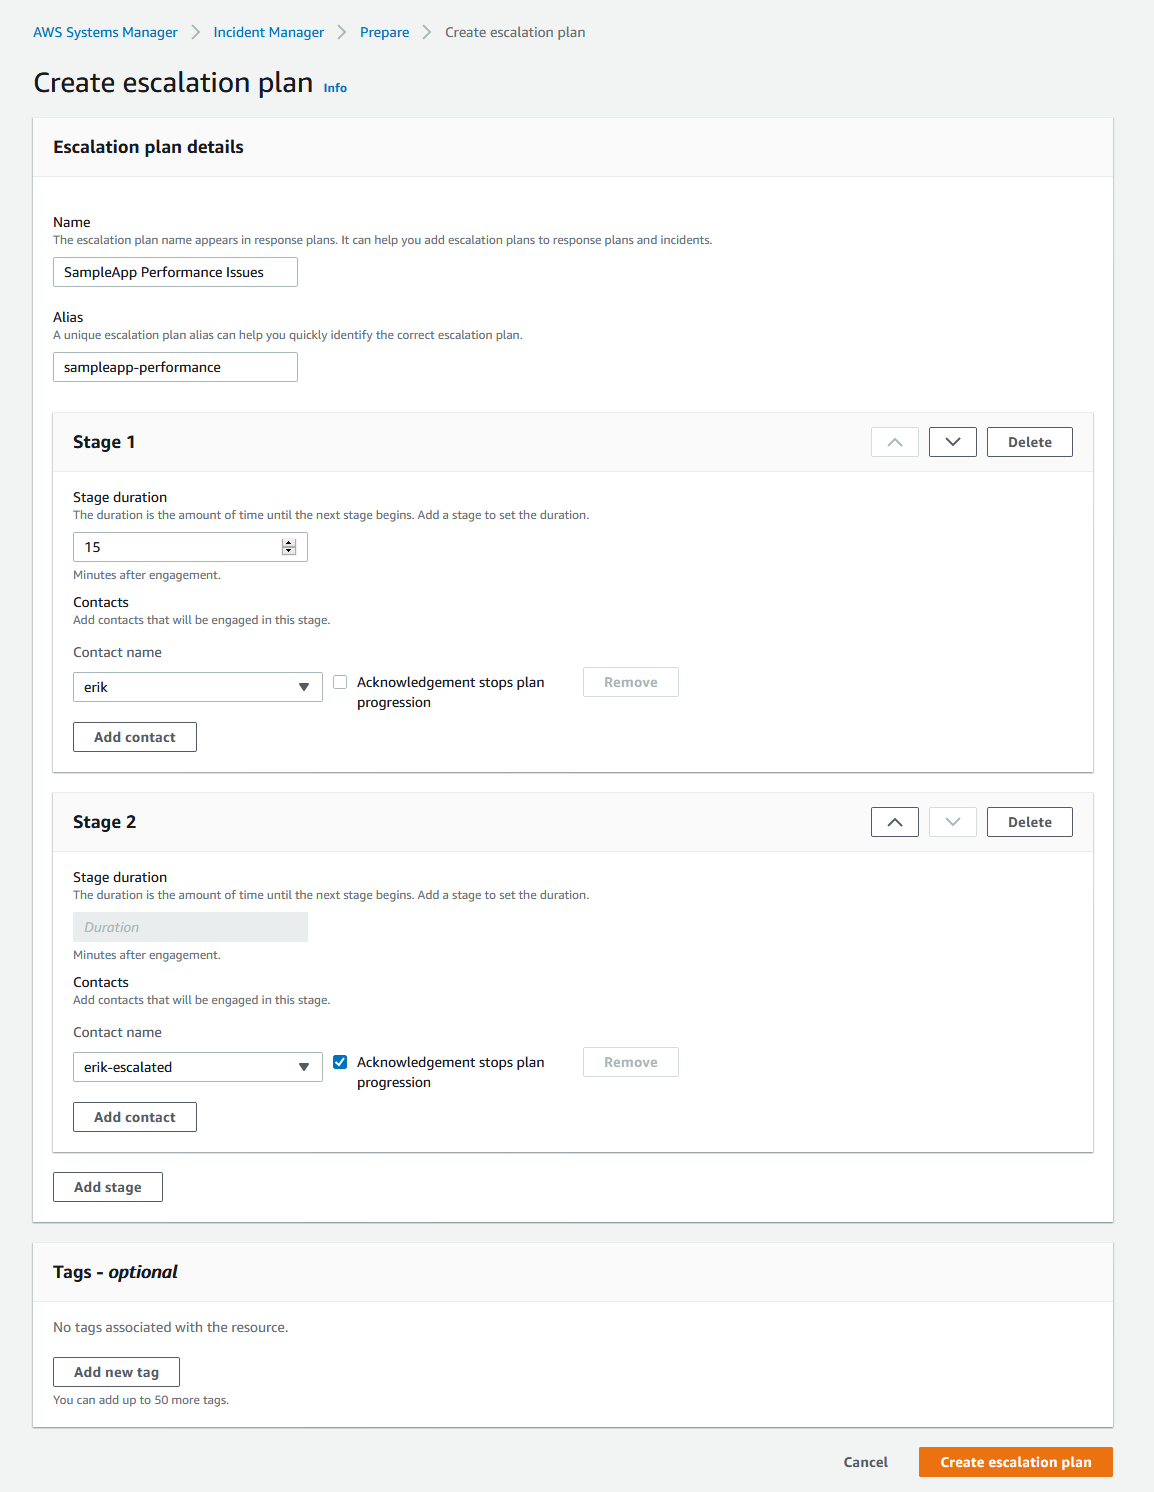
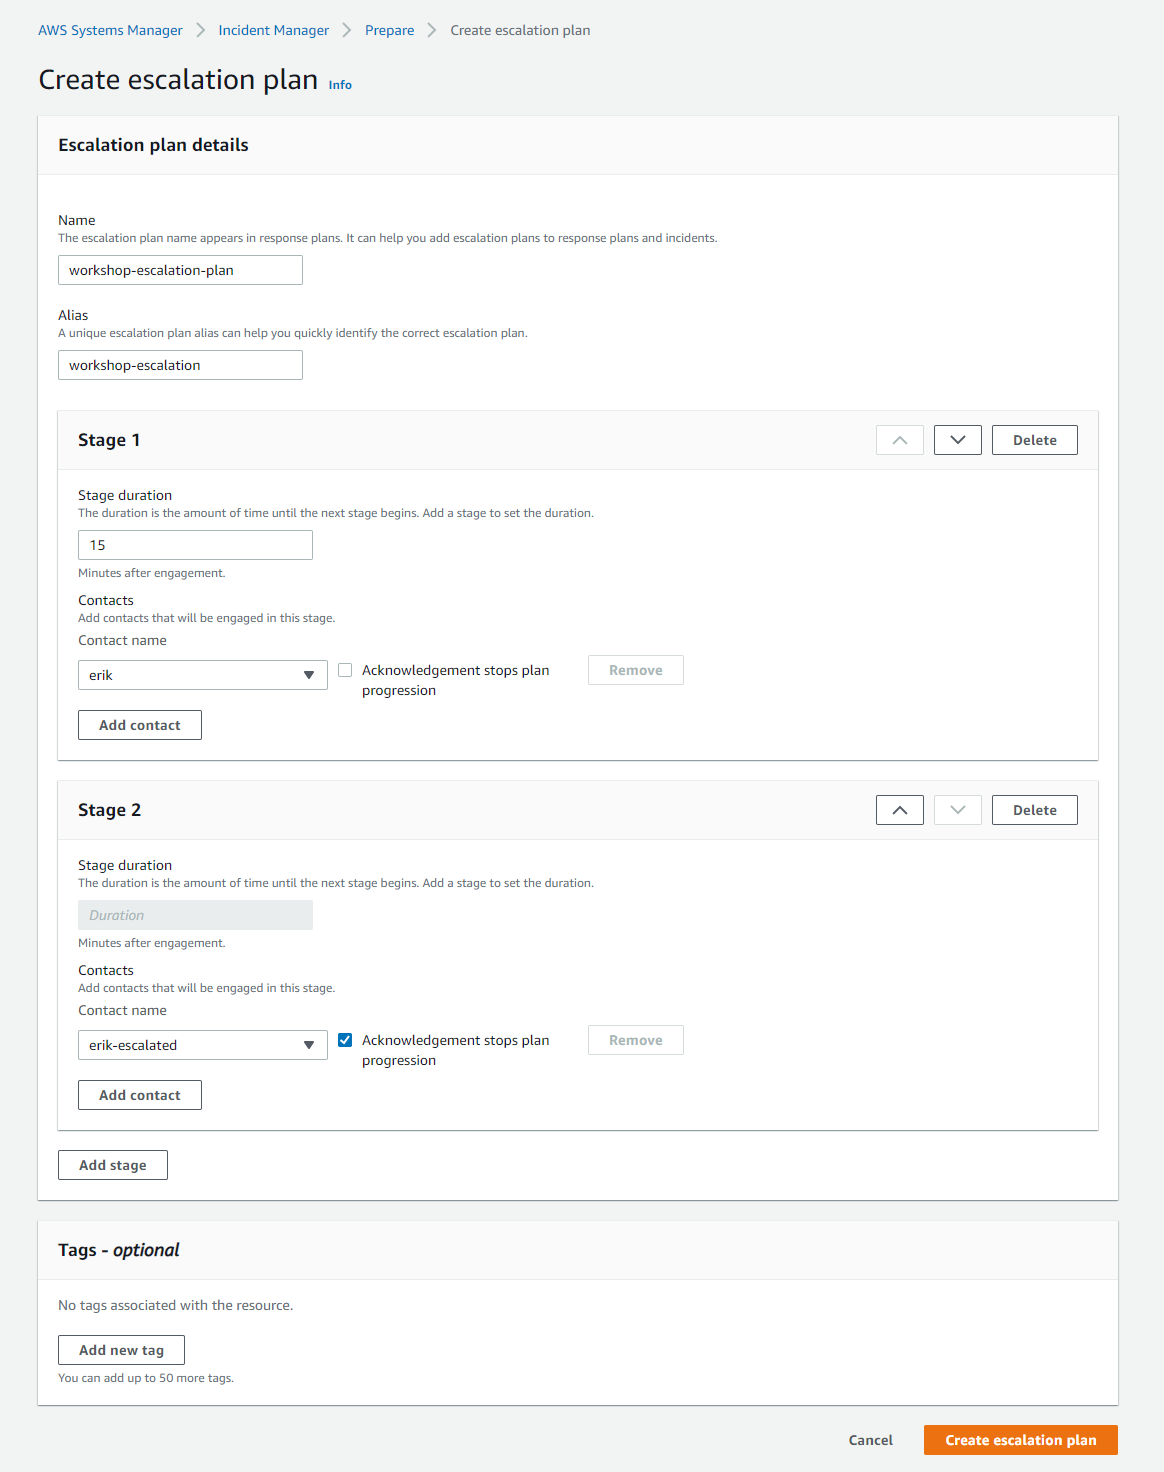
Updates

diff --git a/episode-05-step-01-enable-incident.md b/episode-05-step-01-enable-incident.md
@@ -84,8 +84,8 @@ Escalation plans use **stages** where each stage lasts a defined number of minut
 1. On the **Get prepared** page, choose **Create escalation plan** in the **Escalation plans** section.
 1. On the **Create escalation plan** page, perform the following steps:
 
-    - For **Name**, enter ```SampleApp Performance Issues```.
-    - For **Alias**, enter ```sampleapp-performance```.
+    - For **Name**, enter ```workshop-escalation-plan```.
+    - For **Alias**, enter ```workshop-escalation```.
     - Before making modifications to **Stage 1**, choose **Add stage**.
     - For **Stage 1**, perform the following steps:
         - For **Stage duration** enter ```15```.
@@ -98,7 +98,6 @@ Escalation plans use **stages** where each stage lasts a defined number of minut
     
 ![](media/prepare-escalation-plan.png)
 
-
 ### Create a response plan
 
 Use response plans to plan for incidents and define how to respond to incidents. Response plans provide a template for when an incident occurs. This template includes information about who to engage, the expected severity of the event, automatic runbooks to initiate, and metrics to monitor. To create a response plan, use the following steps. 
@@ -109,7 +108,44 @@ Use response plans to plan for incidents and define how to respond to incidents.
 1. In the navigation pane, choose [**Incident Manager**](https://console.aws.amazon.com/systems-manager/incidents).
 1. Choose **Prepare**.
 1. On the **Get prepared** page, choose **Create response plan** in the **Response plan** section.
+1. For **Response plan details**, enter the following:
 
+    - For **Name** enter ```sampleapp-performance-issues-response-plan```.
+    - For **Display name**, enter ```SampleApp Performance Issues response plan```.
+    
+1. For **Incident creation details**, enter the following:
+
+    - For **Title**, enter ```[SampleApp] Performance Issues Detected```.
+    - Expand the **Additional options** section and enter the following:
+    
+        ```
+        ### :fire: :fire: :fire: **Incident in Progress** :fire: :fire: :fire:
+
+        ---
+
+        #### Summary of Incident
+
+        Sample App resources are experiencing performance issues currently. Escalating to the workshop contact users for immediate resolution.
+
+        #### Current Status
+
+        <Responder to fill out details here>
+        ```
+    
+    - For **Dedupe string**, enter ```SampleAppPerformance```.
+
+1. For the purpose of this workshop, skip the **Chat channel** section.
+1. For **Engagements**, choose **workshop-escalation-plan** from the drop-down list.
+1. For the **Runbook** section, perform the following steps:
+
+    - Choose **Clone runbook from template**.
+    - For **Runbook name** enter ```sampleapp-response-runbook```.
+    - For **Execution permissions**, choose **Create an IAM role using a template**.
+    - For **Role name**, enter ```IncidentManager-role```.
+
+1. Choose **Create response plan**.
+
+![](media/prepare-escalation-plan.png)
 
 ### Create an Amazon Event Bridge rule to monitor
 
